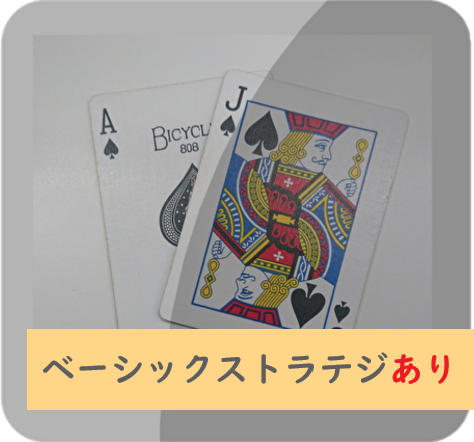
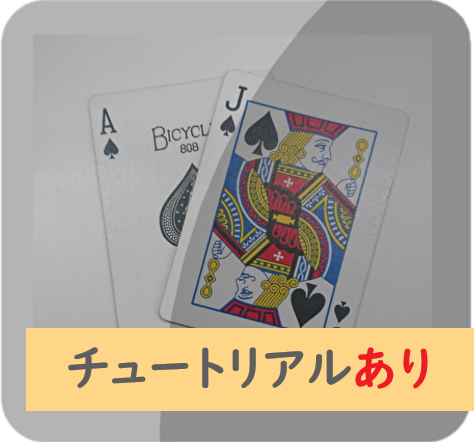
タイトルの画像の変更

Changed region(s): [[0.0886, 0.7647, 0.9451, 0.8824]]

diff --git a/django_trump/myapp/templates/game2.html b/django_trump/myapp/templates/game2.html
@@ -15,7 +15,7 @@
       <div class="row r1">
         <!--- 画像認識表示 -->
         <div class='col-8 game-screen'>
-            <img src="{% url 'myapp:view_OD' %}" class="game">
+            <img src="{% url 'myapp:view_OD_no_tut' %}" class="game">
         </div>
   
         <!--- アシスト表示 --->
@@ -36,7 +36,7 @@
         <div class="row r2">
         <!--- チュートリアル表示 --->
         <div class="col c1">
-          <div class="info1"><p>ベーシックストラテジ</p><a href="{% url 'myapp:game'%}" class="button">リセット</a></div>
+          <div class="info1"><p>ベーシックストラテジ</p><a href="{% url 'myapp:game2'%}" class="button">リセット</a></div>
         <!--</div>
         <div class="col c2">-->
           <div class="info2"><img src="{% static 'img/basic.png' %}" class="panel"></div>

diff --git a/django_trump/myapp/templates/index.html b/django_trump/myapp/templates/index.html
@@ -13,10 +13,10 @@
 
 	<div class="a2">
     <div class="b1">
-      <p><a href="{% url 'myapp:game'%}"><img src="{% static 'img/gameなし.png' %}" class="panel"></a></p>
+      <p><a href="{% url 'myapp:game'%}"><img src="{% static 'img/gameあり.png' %}" class="panel"></a></p>
     </div>
 	  <div class="b2">
-      <p><a href="{% url 'myapp:game2'%}"><img src="{% static 'img/gameあり.png' %}" class="panel"></a></p>
+      <p><a href="{% url 'myapp:game2'%}"><img src="{% static 'img/gameなし.png' %}" class="panel"></a></p>
     </div>
   </div>
   </body>

diff --git a/django_trump/myapp/trump_detection.py b/django_trump/myapp/trump_detection.py
@@ -28,7 +28,7 @@ def sptxtDef(turn_frag):
             turn_frag.value = True
 
 
-#テキストから数値を返す関数 'ACE'→1
+#テキストから数値を返す関数 'ACE'→1,'two'→2
 def trump_text_to_num(str1):
     class_names = ['ace','two','three','four','five','six','seven','eight','nine','ten','jack','queen','king']
     if int(class_names.index(str1)+1) >= 10:
@@ -37,7 +37,7 @@ def trump_text_to_num(str1):
         return int(class_names.index(str1)+1)
 
 
-def gen(camera):
+def gen(camera,tut_frag):
 
     # Name of the directory containing the object detection module we're using
     MODEL_NAME = 'inference_graph'
@@ -109,7 +109,7 @@ def gen(camera):
         height = frame.shape[0]
         width = frame.shape[1]
         print(height,width)
-        frame = frame[int(height*0.125):int(height*0.875), :]
+        frame = frame[int(height*0.13):int(height*0.88),int(width*0.170):int(width*0.930)]
         frame_expanded = np.expand_dims(frame, axis=0)
 
 
@@ -171,7 +171,7 @@ def gen(camera):
                     total_num_p1 = total_num_p1 + (trump_text_to_num(text[0]))
                     #手札にAが入っていた場合の考慮
                     if 1 in num_p1:
-                        total_num_p1s = (total_num_p1 - 1) + 10
+                        total_num_p1s = (total_num_p1 - 1) + 11
                     
                 elif xmax<0.5:
                     player_n =  'プレイヤー2'
@@ -179,7 +179,7 @@ def gen(camera):
                     total_num_p2 = total_num_p2 + (trump_text_to_num(text[0]))
                     #手札にAが入っていた場合の考慮
                     if 1 in num_p2:
-                        total_num_p2s = (total_num_p2 - 1) + 10
+                        total_num_p2s = (total_num_p2 - 1) + 11
                     
                 elif xmax<0.75:
                     player_n =  'プレイヤー3'
@@ -187,7 +187,7 @@ def gen(camera):
                     total_num_p3 = total_num_p3 + (trump_text_to_num(text[0]))
                     #手札にAが入っていた場合の考慮
                     if 1 in num_p3:
-                        total_num_p3s = (total_num_p3 - 1) + 10
+                        total_num_p3s = (total_num_p3 - 1) + 11
                     
                 else:
                     player_n =  'プレイヤー4'
@@ -195,7 +195,7 @@ def gen(camera):
                     total_num_p4 = total_num_p4 + (trump_text_to_num(text[0]))
                     #手札にAが入っていた場合の考慮
                     if 1 in num_p4:
-                        total_num_p4s = (total_num_p4 - 1) + 10
+                        total_num_p4s = (total_num_p4 - 1) + 11
 
             else:
                 num_dea.append(trump_text_to_num(text[0]))
@@ -270,7 +270,7 @@ def gen(camera):
                         cv2.putText(frame, 'lose', (int(width*0.125), int(height*0.75)), cv2.FONT_HERSHEY_SIMPLEX, 1, (77, 235, 56), 3)
 
             #プレイヤー２の判定
-            if 1 in field_list[1]:
+            if 1 in field_list[2]:
                 if 1 in field_list[0]:
                     if (total_num_p2s <= 21) and (total_num_p2s > total_num_deas) or (21 < total_num_deas):
                         cv2.putText(frame, 'win', (int(width*0.375), int(height*0.75)), cv2.FONT_HERSHEY_SIMPLEX, 1, (77, 235, 56), 3)
@@ -313,7 +313,7 @@ def gen(camera):
                         cv2.putText(frame, 'lose', (int(width*0.375), int(height*0.75)), cv2.FONT_HERSHEY_SIMPLEX, 1, (77, 235, 56), 3)
 
             #プレイヤー3の判定
-            if 1 in field_list[1]:
+            if 1 in field_list[3]:
                 if 1 in field_list[0]:
                     if (total_num_p3s <= 21) and (total_num_p3s > total_num_deas) or (21 < total_num_deas):
                         cv2.putText(frame, 'win', (int(width*0.625), int(height*0.75)), cv2.FONT_HERSHEY_SIMPLEX, 1, (77, 235, 56), 3)
@@ -356,7 +356,7 @@ def gen(camera):
                         cv2.putText(frame, 'lose', (int(width*0.625), int(height*0.75)), cv2.FONT_HERSHEY_SIMPLEX, 1, (77, 235, 56), 3)
 
             #プレイヤー4の判定
-            if 1 in field_list[1]:
+            if 1 in field_list[4]:
                 if 1 in field_list[0]:
                     if (total_num_p4s <= 21) and (total_num_p4s > total_num_deas) or (21 < total_num_deas):
                         cv2.putText(frame, 'win', (int(width*0.875), int(height*0.75)), cv2.FONT_HERSHEY_SIMPLEX, 1, (77, 235, 56), 3)
@@ -413,7 +413,11 @@ def gen(camera):
             cv2.putText(frame, str(total_num_p4s), (int(width*0.875), int(height*0.8)), cv2.FONT_HERSHEY_SIMPLEX, 1, (255, 0, 255), 3)
 
         #ゲームの状態のフラグを取得
-        field_state,turn_frag.value = get_state.get_state(field_list,True,field_state)
+        #チュートリアルありとなしの各フラグ処理
+        if tut_frag:
+            field_state,turn_frag.value = get_state.get_state(field_list,bool(turn_frag.value),field_state)
+        else:
+            field_state,turn_frag.value = get_state.get_state(field_list,True,field_state)
         print('デバッグ：field_state'+str(field_state))
 
         #取得したフラグからチュートリアルのテキストを取得
@@ -436,5 +440,7 @@ def gen(camera):
         
         yield(b'--frame\r\n'
         b'Content-Type: image/jpeg\r\n\r\n' + frame + b'\r\n\r\n')
+
+        time.sleep(0.1)
     
     ws.close()

diff --git a/django_trump/myapp/views.py b/django_trump/myapp/views.py
@@ -31,8 +31,8 @@ def game2(request):
 class VideoCamera(object):
     def __init__(self):
         self.video = cv2.VideoCapture(0)
-        ret = self.video.set(3,900)
-        ret = self.video.set(4,677)
+        ret = self.video.set(3,1920)
+        ret = self.video.set(4,1080)
         
     def __del__(self):
         self.video.release()
@@ -40,6 +40,13 @@ class VideoCamera(object):
 @gzip.gzip_page
 def view_OD(request): 
     try:
-        return StreamingHttpResponse(trd.gen(VideoCamera()),content_type="multipart/x-mixed-replace;boundary=frame")
+        return StreamingHttpResponse(trd.gen(VideoCamera(),True),content_type="multipart/x-mixed-replace;boundary=frame")
+    except HttpResponseServerError as e:
+        print("aborted")
+
+@gzip.gzip_page
+def view_OD_no_tut(request): 
+    try:
+        return StreamingHttpResponse(trd.gen(VideoCamera(),False),content_type="multipart/x-mixed-replace;boundary=frame")
     except HttpResponseServerError as e:
         print("aborted")

diff --git a/django_trump/myapp/urls.py b/django_trump/myapp/urls.py
@@ -8,4 +8,5 @@ urlpatterns = [
     path('game/', views.game, name='game'),
     path('game2/', views.game2, name='game2'),
     path('view_OD/', views.view_OD, name='view_OD'),
+    path('view_OD_no_tut/', views.view_OD_no_tut, name='view_OD_no_tut'),
 ]
